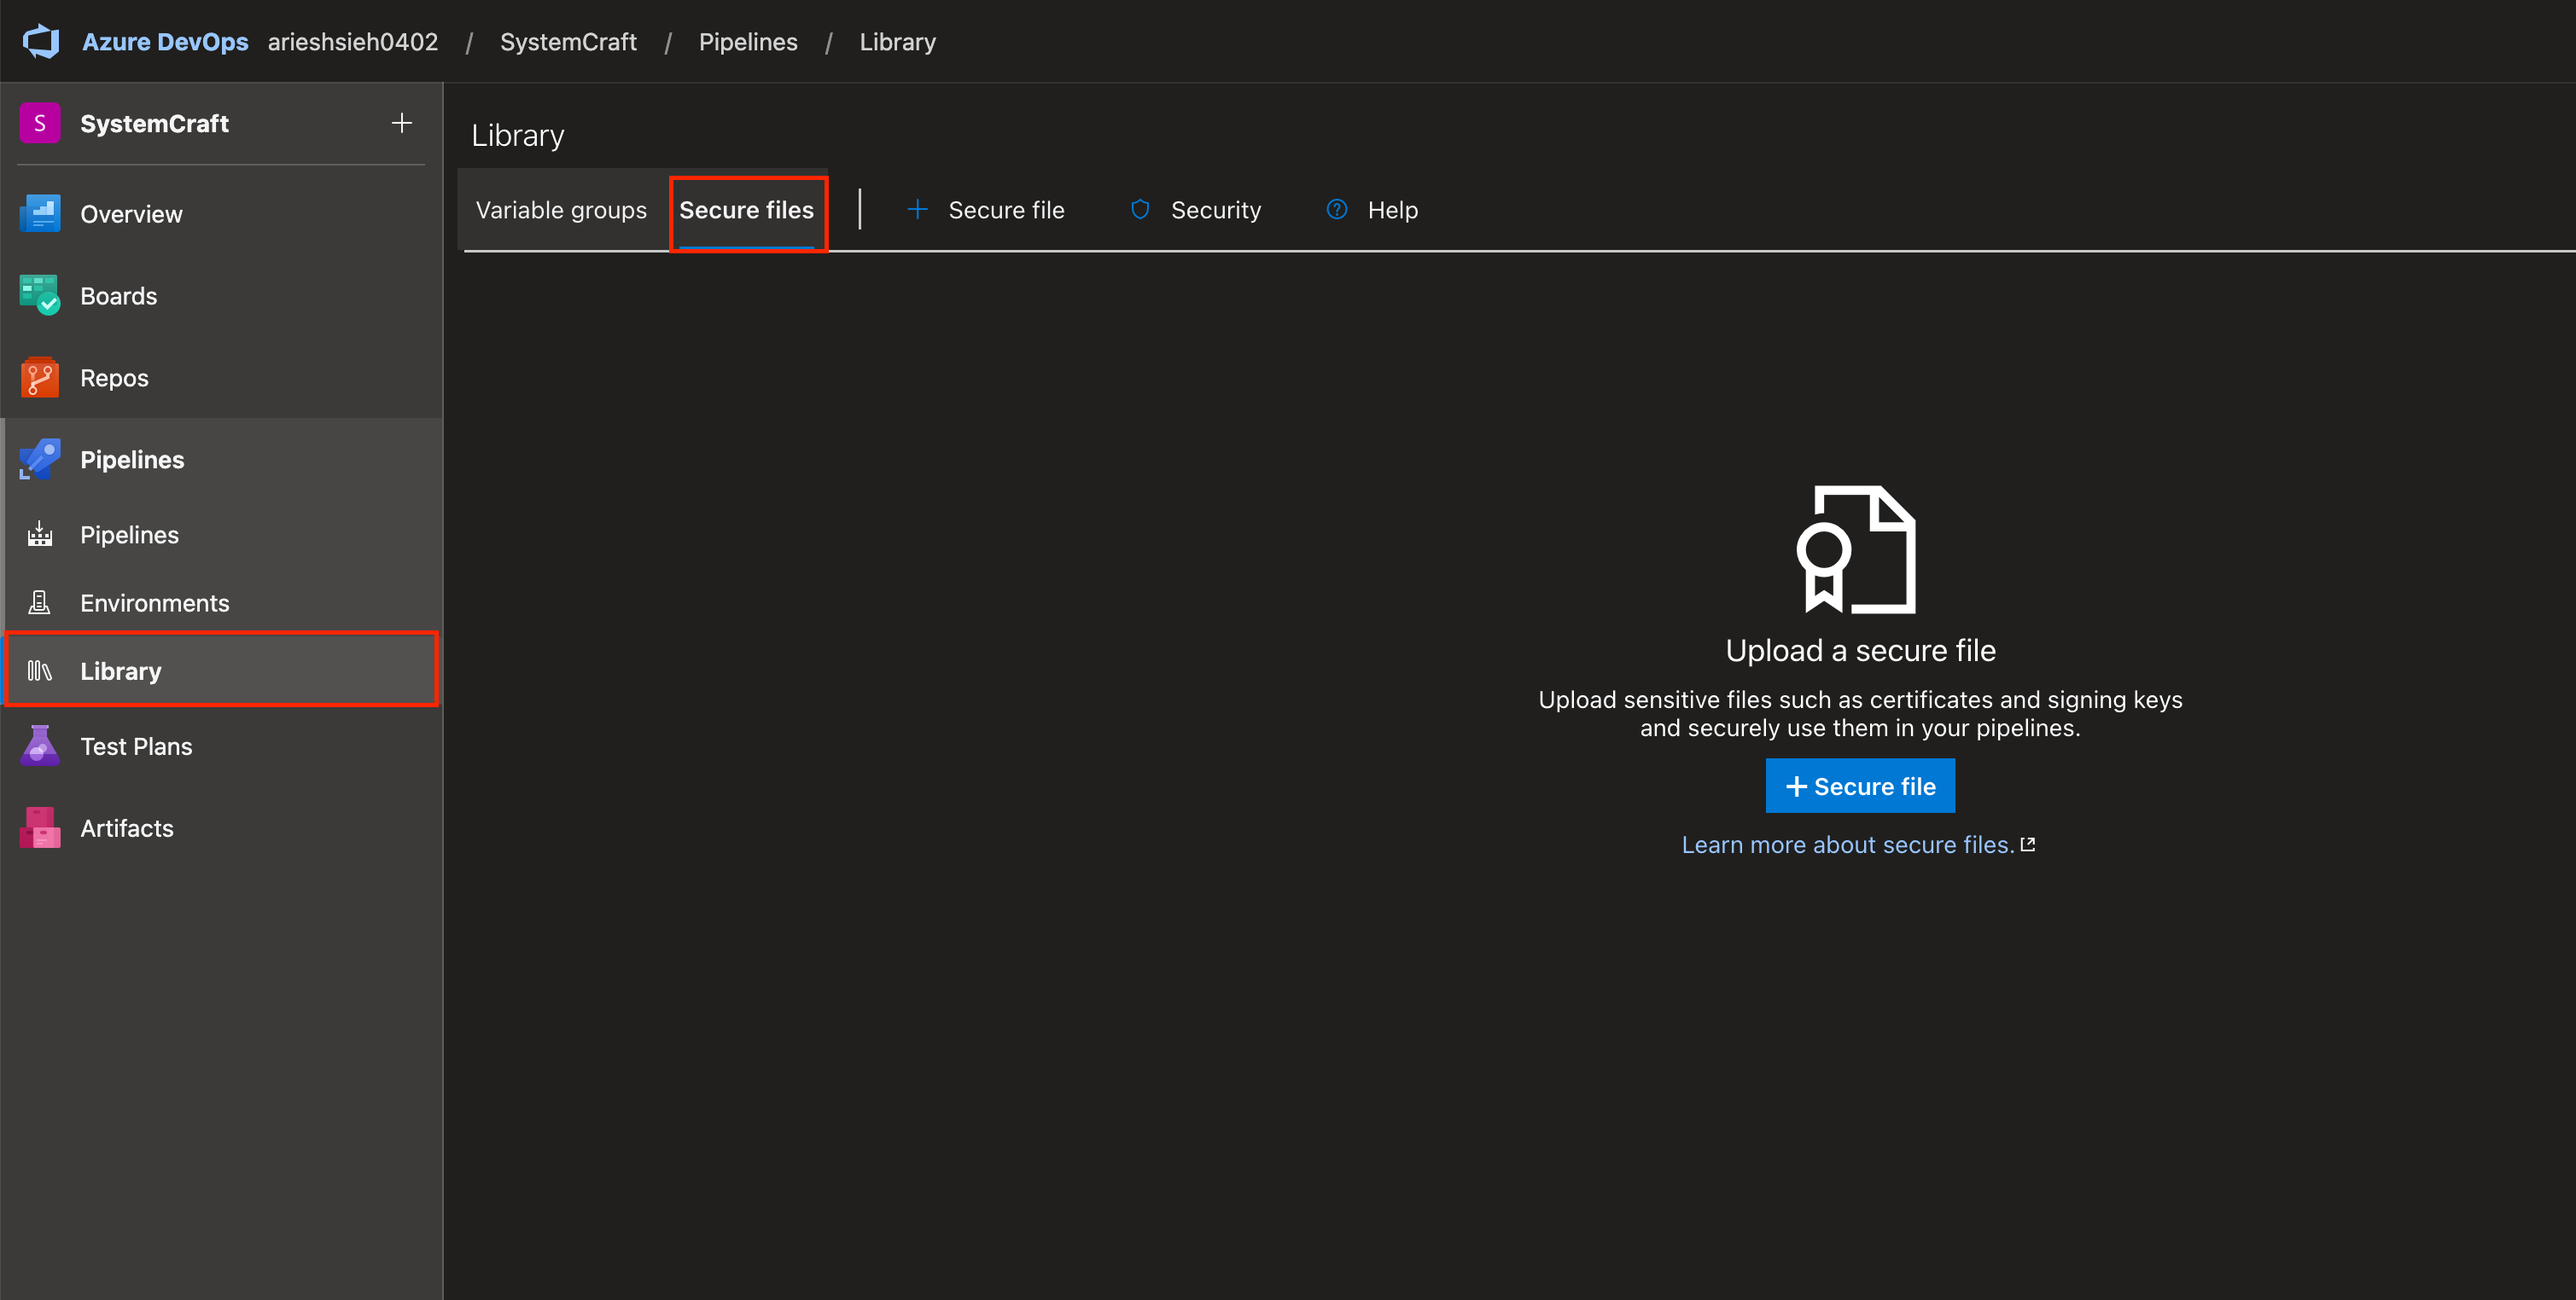
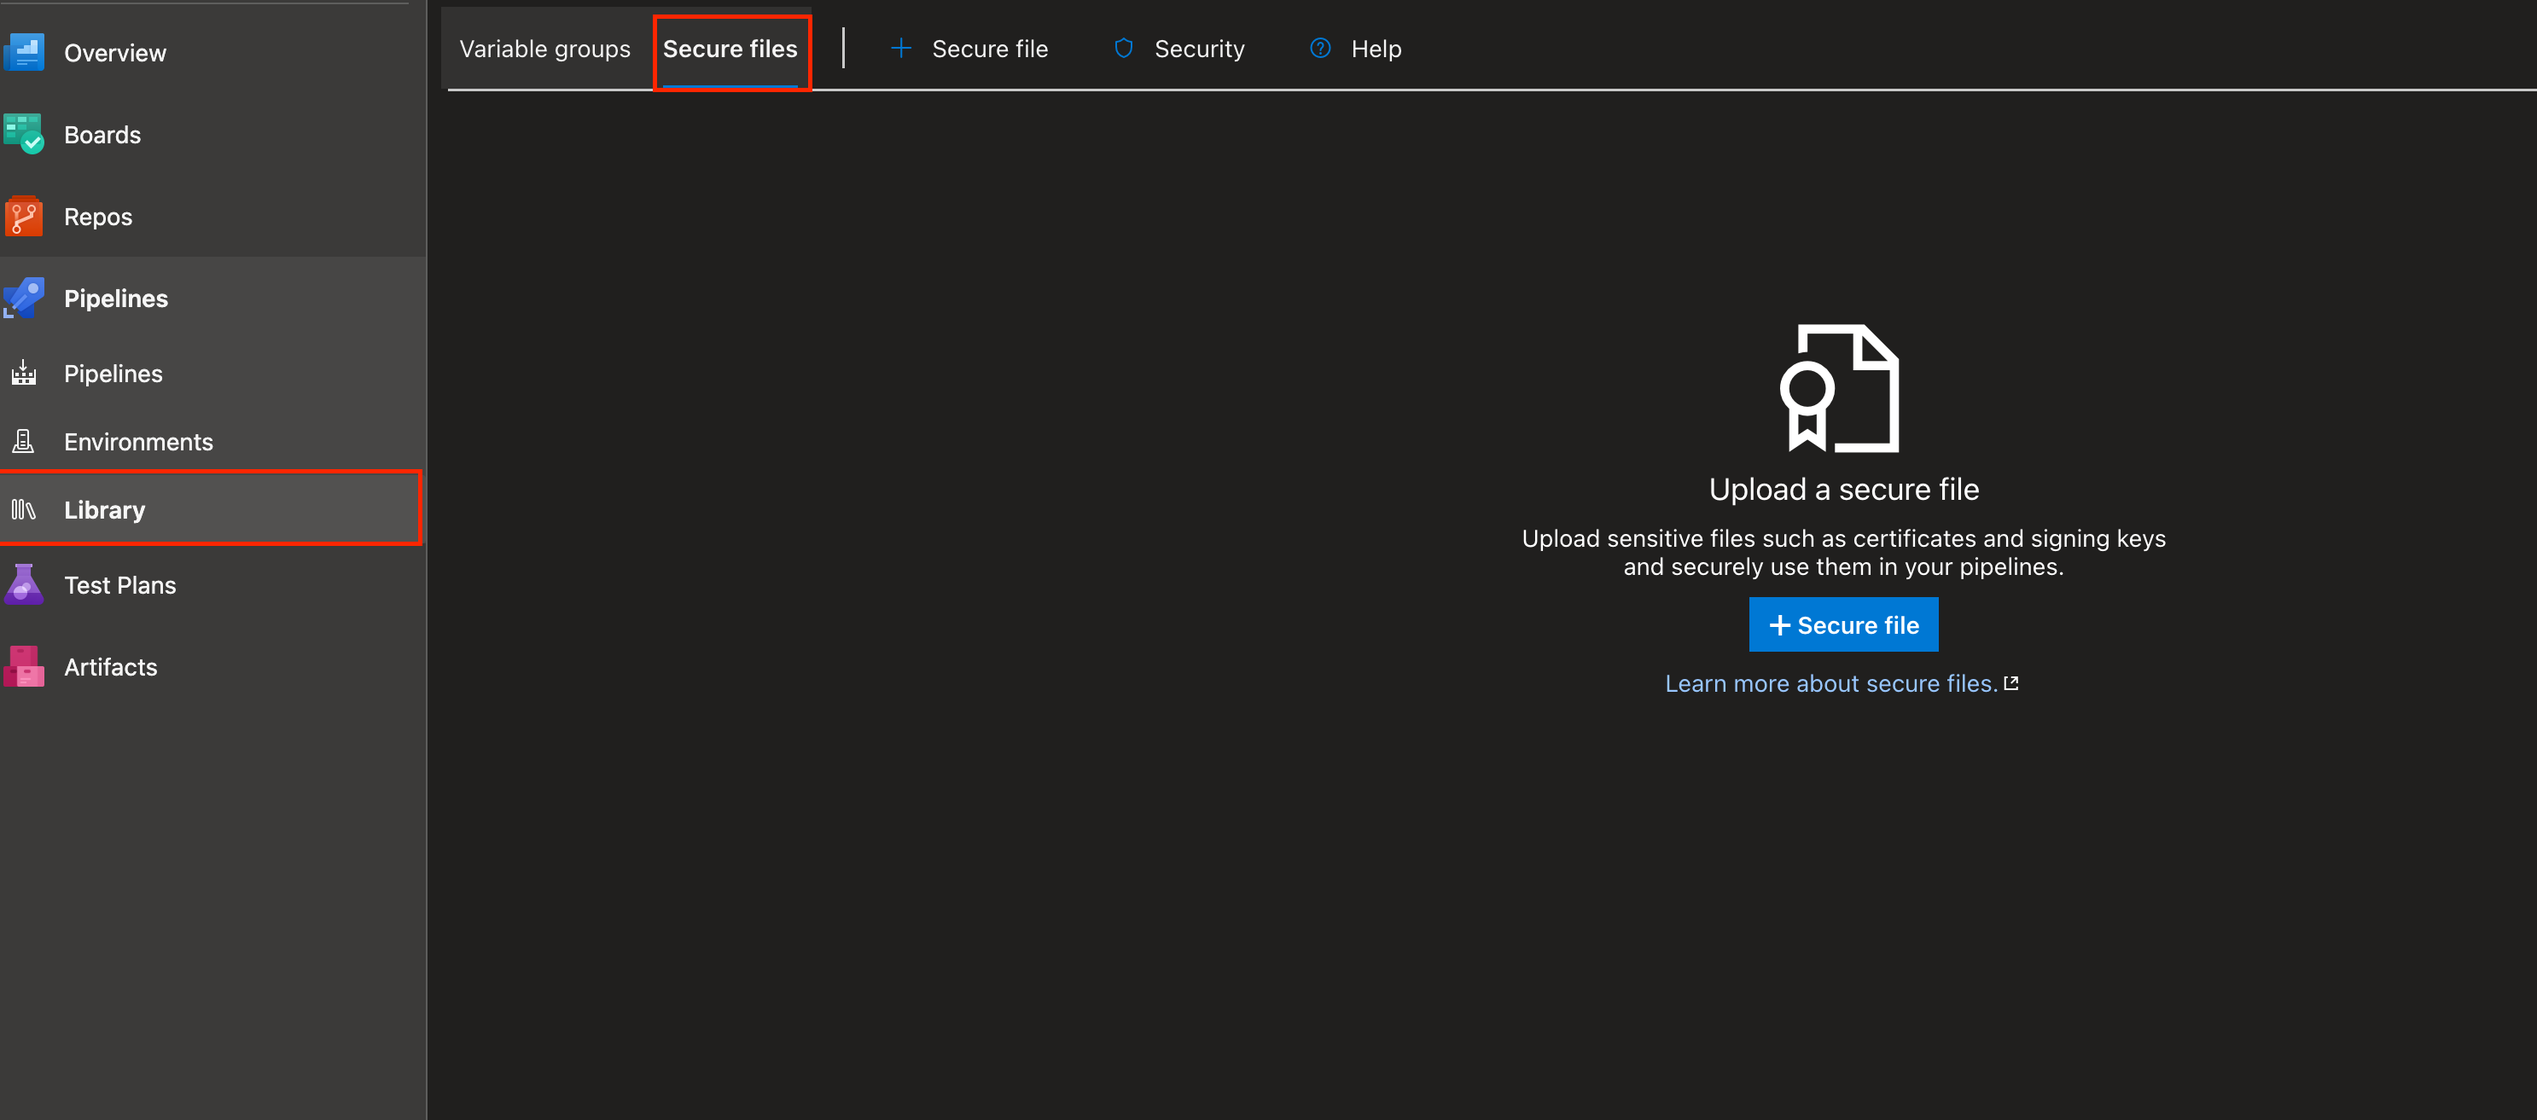
改 day 27

diff --git a/AriesHsieh/content/posts/2025-08-22-iron-day27/index.md b/AriesHsieh/content/posts/2025-08-22-iron-day27/index.md
@@ -73,6 +73,18 @@ comments: true
 
 3. 接下來，填入先前在 App Store Connect 取得的資訊。將 .p8 金鑰檔的內容、Key ID 和 Issuer ID 依序填入對應欄位。由於我們的目標是發布到 App Store，因此「In house deployment」選項請選擇 No。
 
+---
+
+值得一提的是，我們取得的 .p8 是 PEM 格式，有著 -----BEGIN PRIVATE KEY----- 和 -----END PRIVATE KEY----- 這樣的標頭和結尾。中間的亂碼部分是金鑰的實際資料，經過 Base64 編碼。但是，在 Azure 的 App Store Service 的 Key 欄位下面標注 "Base64-encoded content of the App Store Connect API P8 private key file"，這表示你必須將整份 .p8 文件內容再作一次 base64 encode，然後將結果貼上來才可以。
+
+這裡我是使用以下命令來轉換：
+
+```shell
+base64 -i YOUR_P8_KEY_FILE.p8 -o base64Encode_key
+```
+
+---
+
 ![alt text](azureSetting6.png)
 
 完成後儲存，這樣就成功建立了一個安全的服務連線。
